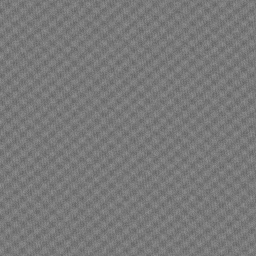
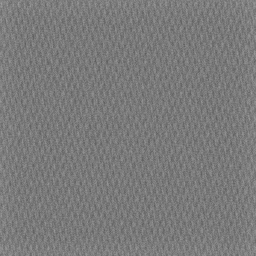
Prevent metrics pass from rewriting PBR textures

diff --git a/tools/blender/create-bing-character-blockouts.py b/tools/blender/create-bing-character-blockouts.py
@@ -16,6 +16,7 @@ DOCS_ROOT = PROJECT_ROOT / "docs"
 PBR_TEXTURE_ROOT = ASSET_ROOT / "materials" / "pbr"
 PBR_TEXTURE_SIZE = 256
 PBR_TEXTURE_VERSION = "semireal-materials-v2"
+PBR_TEXTURE_WRITE_ENABLED = True
 LOD0_FACE_BUDGET = 40_000
 LOD1_FACE_BUDGET = 12_000
 LOD1_DECIMATE_RATIO = 0.15
@@ -134,6 +135,7 @@ CHARACTERS = [
 
 
 def main() -> None:
+    global PBR_TEXTURE_WRITE_ENABLED
     animation_pass_only = "--bing-animation-pass" in sys.argv
     action_pose_only = "--bing-action-poses-only" in sys.argv
     face_detail_only = "--bing-face-detail-only" in sys.argv
@@ -146,6 +148,7 @@ def main() -> None:
     action_pose_filter = selected_action_pose_ids()
     character_filter = selected_character_ids()
     active_characters = [spec for spec in CHARACTERS if character_filter is None or spec.character_id in character_filter]
+    PBR_TEXTURE_WRITE_ENABLED = not metrics_only
     print(f"BING_GENERATION_MODE={'metrics-only' if metrics_only else 'save-scene-only' if save_scene_only else 'face-detail-only' if face_detail_only else 'skinning-preview-only' if skinning_preview_only else 'static-only' if static_view_only else 'rig-guide-only' if rig_guide_only else 'action-poses-only' if action_pose_only else 'export-only' if export_only else 'animation-pass' if animation_pass_only else 'full'}", flush=True)
     clear_scene()
     configure_scene()
@@ -2362,6 +2365,8 @@ def ensure_pbr_texture_pack(
         "normal": out_dir / "normal.png",
         "roughness": out_dir / "roughness.png",
     }
+    if not PBR_TEXTURE_WRITE_ENABLED:
+        return paths
     version_path = out_dir / ".texture-version"
     current_version = version_path.read_text(encoding="utf-8").strip() if version_path.exists() else ""
     needs_write = current_version != PBR_TEXTURE_VERSION or any(not path.exists() for path in paths.values())